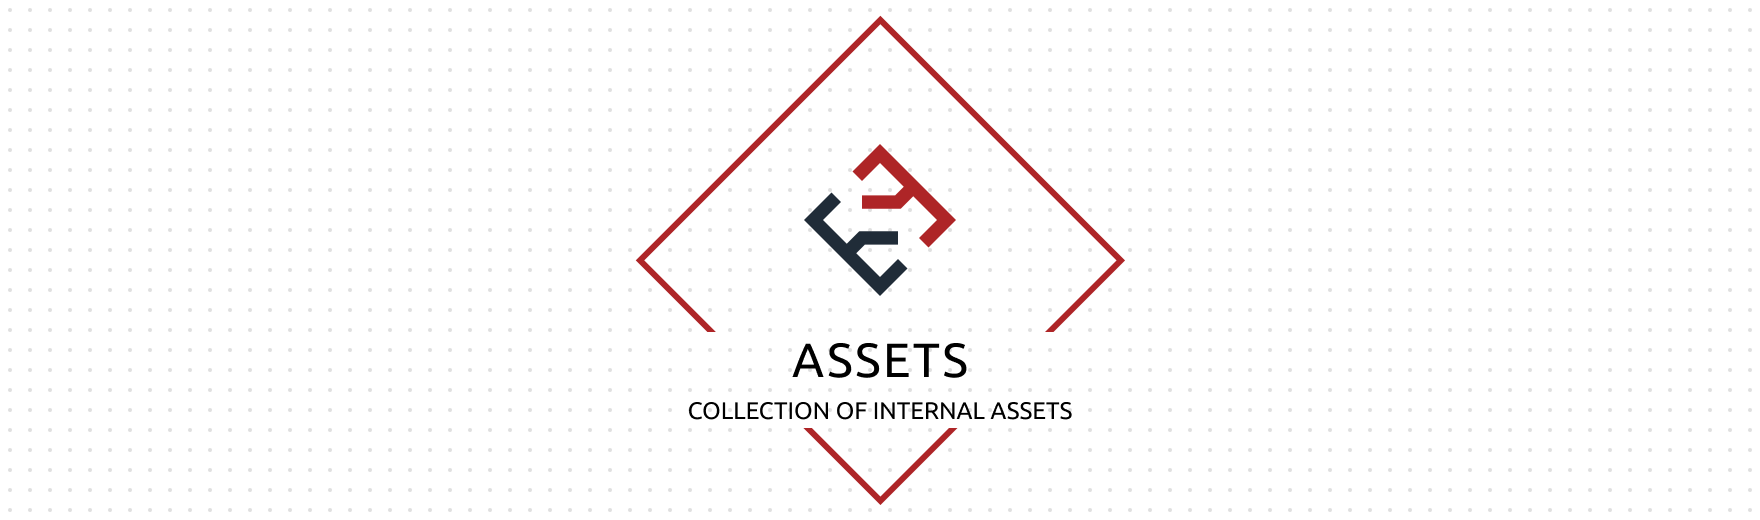
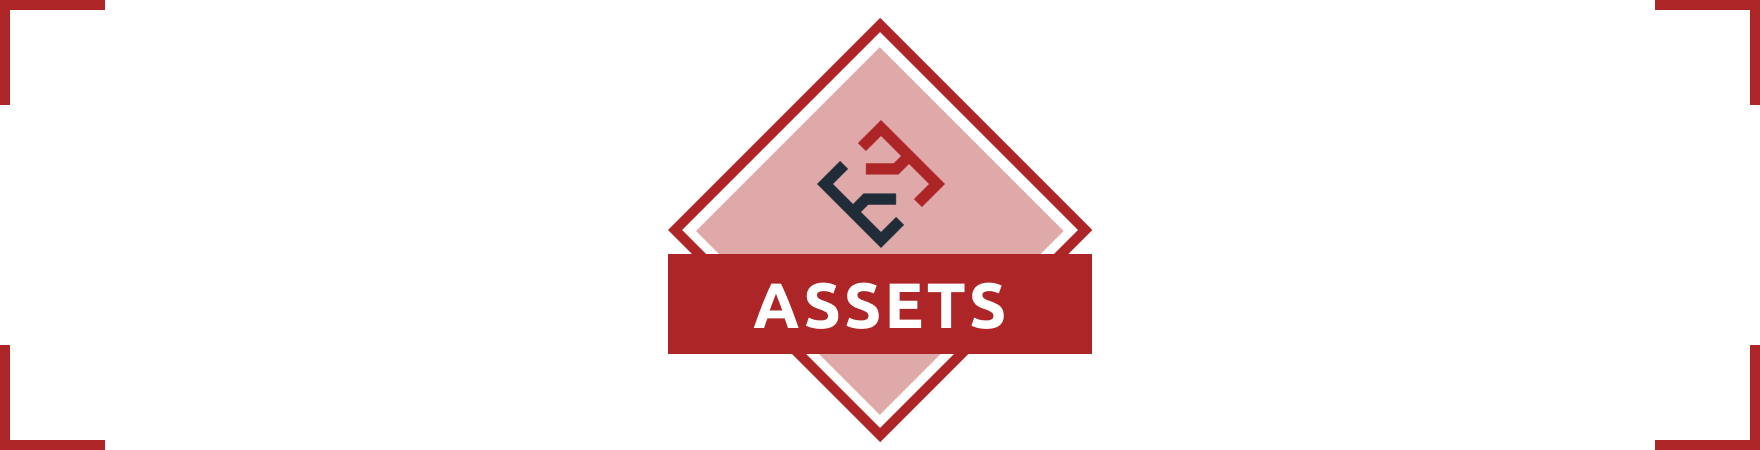
GH dark theme (#9)
* Updated project title design to be dark and light theme friendly

* Updated project title image

* Updated project title image

* Updated diamond fill opacity

* Updated project title README

* Updated project title source

* Updated icon README

* Updated project-screenshot README

* Updated project-screenshot README

* Updated project-title README

* Updated project screenshot design to be dark and light theme friendly

* Updated local styles for project screenshot asset

diff --git a/src/project-screenshot/README.md b/src/project-screenshot/README.md
@@ -8,26 +8,22 @@ This template is saved as `.fig` format, which is native to [Figma](https://www.
 
 ## Usage
 
-The project screenshot image (`1760px x >260px`) can be found referenced in a repository `README`, alongside a matching [project-title](../project-title). The height of this image will scale to the screenshot content.
-
-### Layers
-
-![layers](./.assets/layers.png)
+The project screenshot image (`1760px x >260px`) can be found referenced in a repository `README`, alongside a matching [project-title](../project-title) asset.
 
 ### Editing
 
 #### Screenshot
 
-Use the `screenshot` frame layer as a guide to position an image, and center the image to the frame layer. Resize the height of the `project-screenshot` root frame layer to accommodate the image.
+Use the `screenshot` frame layer as a guide to position a single image, and center the image to the frame layer. Resize the height of the `project-screenshot` root layer to accommodate the image.
 
 #### Local Styles
 
-Update the `Primary Border` local style to the primary/dominant colour from the project icon. This will update the stroke colour of the `corner` component.
+Update the `Primary` local style to the primary/dominant colour from the project icon, this should match the [project-title](../project-title) asset.
 
-![local-styles](./.assets/local-styles.png)
+#### Theme Preview
+
+Use the `github-preview` page to examine how the asset looks on different themes.
 
 ### Exporting
 
 Select the `project-screenshot` root frame layer, and ensure that the `Fill` property is hidden. Use the `Export` section at the bottom, with `PNG` format selected.
-
-![export](./.assets/export.png)

diff --git a/src/project-title/README.md b/src/project-title/README.md
@@ -8,26 +8,22 @@ This template is saved as `.fig` format, which is native to [Figma](https://www.
 
 ## Usage
 
-The project title image (`1760px x 520px`) can be found referenced at the top of a repository `README`.
-
-### Layers
-
-![layers](./.assets/layers.png)
+The project title image can be found referenced at the top of a repository `README`.
 
 ### Editing
 
 #### Icon
 
-Use the `project-icon` frame layer as a guide to position a project icon (`152px x 152px`). Ensure to remove/hide the `Fill` property afterwards.
+Use the `project-icon` layer to update the project icon (`128px x 128px`).
 
 #### Local Styles
 
-Update the `Primary Border` local style to the primary/dominant colour from the project icon. This will update the stroke colour of the `diamond` shape layer.
+Update the `Primary` local style to the primary/dominant colour from the project icon.
 
-![local-styles](./.assets/local-styles.png)
+#### Theme Preview
+
+Use the `github-preview` page to examine how the asset looks on different themes.
 
 ### Exporting
 
-Select the `project-title` root frame layer and ensure that the `Fill` property is hidden. Use the `Export` section at the bottom, with `PNG` format selected.
-
-![export](./.assets/export.png)
+Select the `project-title` root frame layer, and ensure that the `Fill` property is hidden. Use the `Export` section at the bottom, with `PNG` format selected.

diff --git a/src/icon/README.md b/src/icon/README.md
@@ -10,8 +10,10 @@ This template is saved as `.svg` format, and includes metadata for [Inkscape](ht
 
 ### Editing
 
-- Update the `id` attribute for appropriate layers/nodes
+#### Attributes
+
+Update the `id` attribute for appropriate layers/nodes
 
 ### Exporting
 
-Ensure to export as `Plain SVG`, without any of the editor metadata. Additionally, use [svgomg](https://jakearchibald.github.io/svgomg/) to optimise the icon.
+Ensure to export as `Plain SVG`, without any of the editor metadata. Additionally, use [svgomg](https://jakearchibald.github.io/svgomg/) to further optimise the icon.
